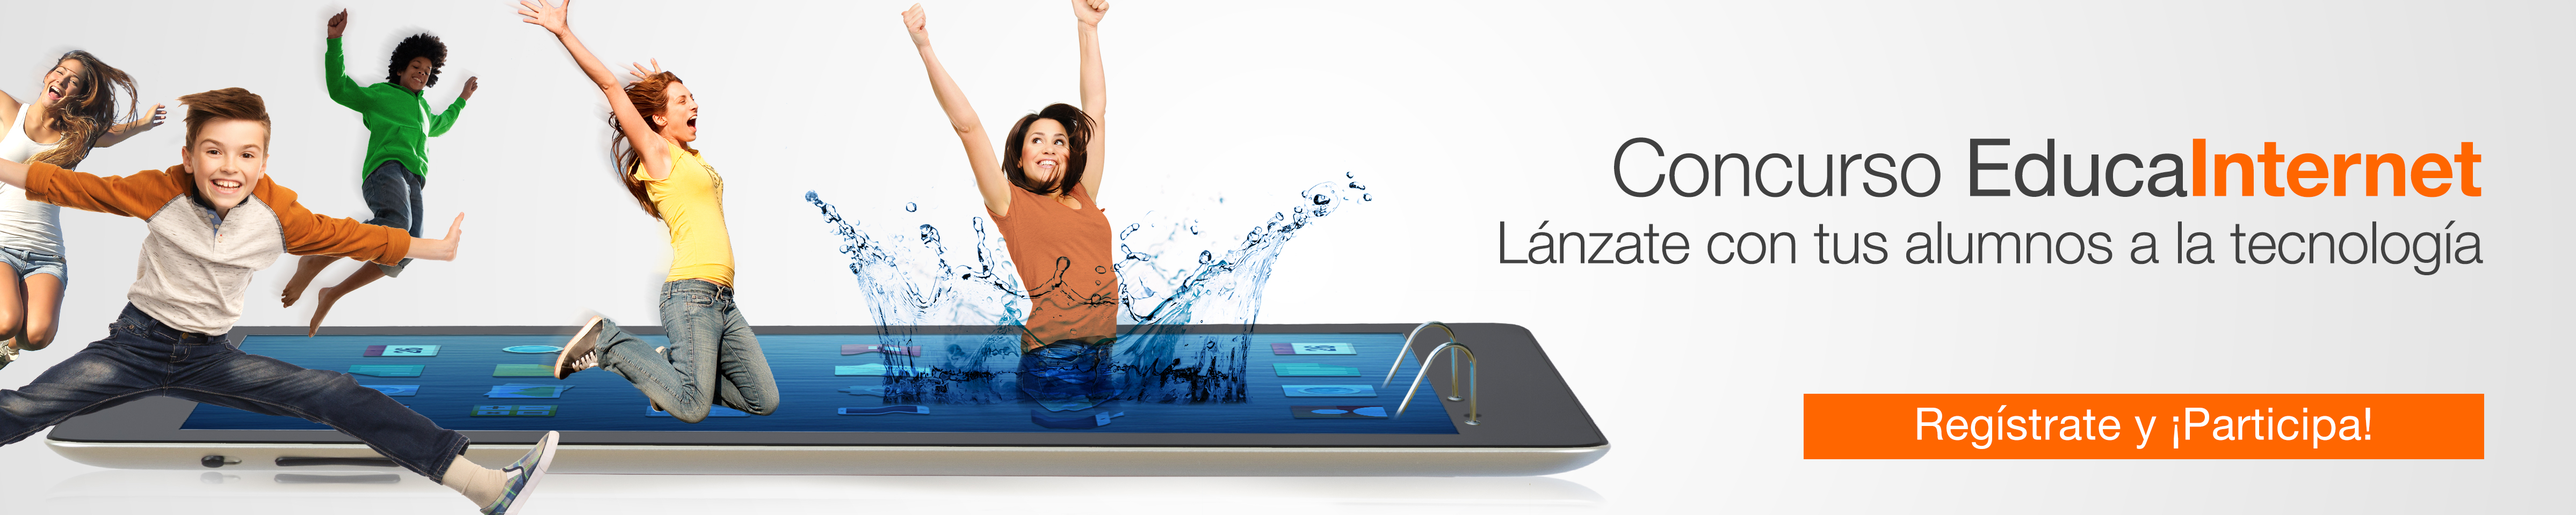
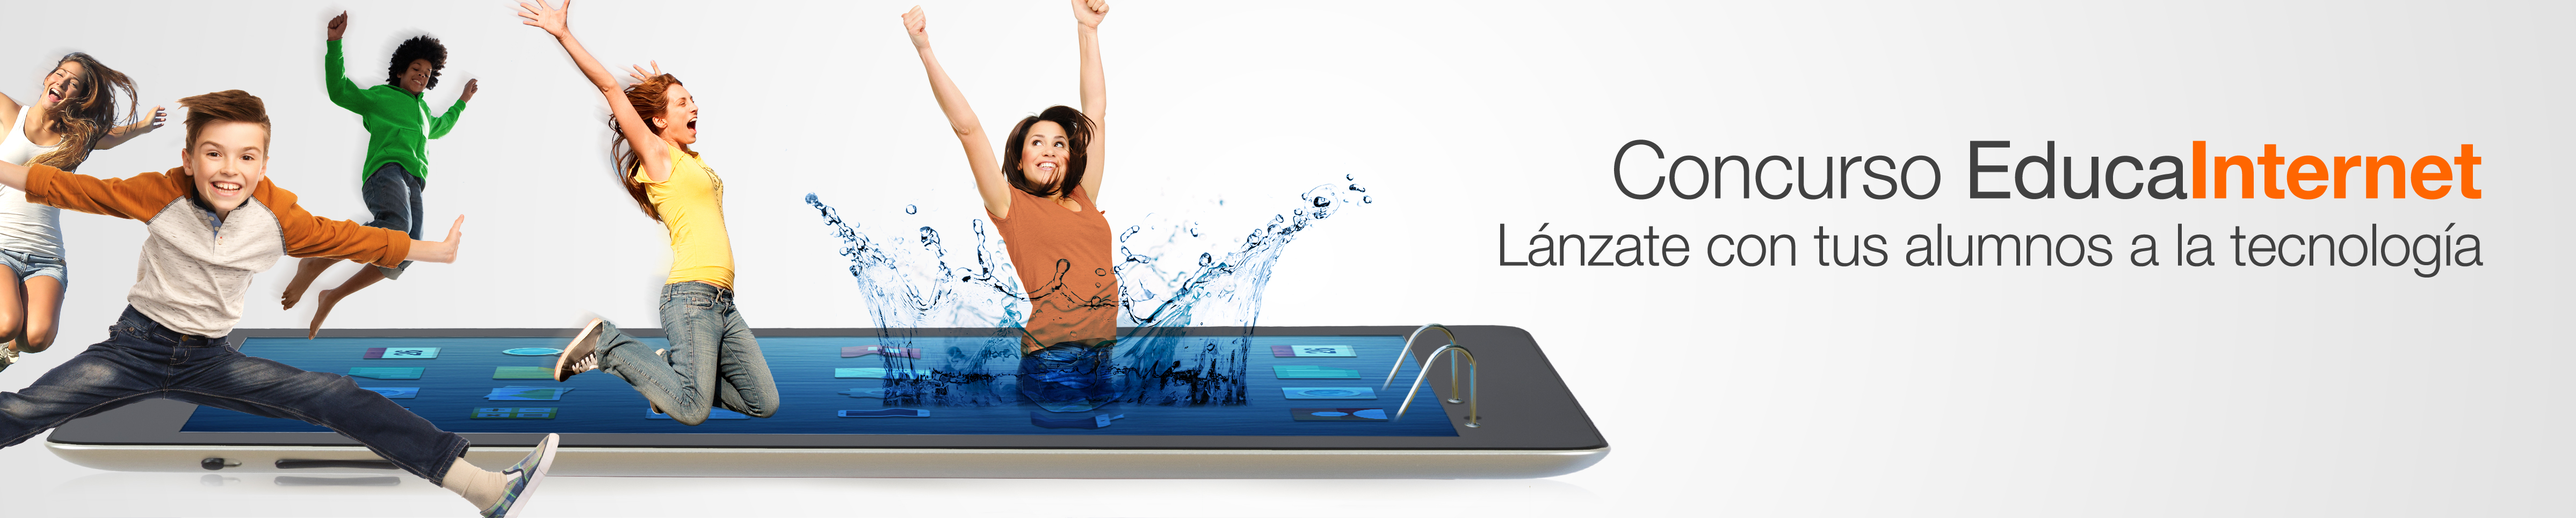
fixing contest styles

diff --git a/app/assets/stylesheets/ViSH_style_guide/pages/_frontpage.css.sass b/app/assets/stylesheets/ViSH_style_guide/pages/_frontpage.css.sass
@@ -95,6 +95,12 @@
     img
       bottom: 0
       position: inherit
+    .btn-signup-contest
+      position: absolute
+      right: 3.5vw
+      bottom: 3vw
+      width: 25vw
+      font-size: 1.2em
 
   .box-title-general
     height: 100px
@@ -312,6 +318,12 @@
     .box-title-general
       img
         bottom: -120px
+    .box-title-general.contest_img
+      .btn-signup-contest
+        right: 3.5vw
+        bottom: 3vw
+        width: 30vw
+        font-size: 1.2em
 
 
 @media (min-width: 481px) and (max-width: 767px)
@@ -346,6 +358,12 @@
           padding: 10px
       img
         bottom: -50px
+    .box-title-general.contest_img
+      .btn-signup-contest
+        right: 3.5vw
+        bottom: 3vw
+        width: 35vw
+        font-size: 1em
 @media (max-width: 480px)
   .entities_front
     .box-item
@@ -374,3 +392,9 @@
           font-size: 1.35em
       img
         bottom: 0px
+    .box-title-general.contest_img
+      .btn-signup-contest
+        left: 3.5vw
+        bottom: 3vw
+        width: 50vw
+        font-size: 1em

diff --git a/app/assets/stylesheets/ViSH_style_guide/pages/_contests.css.sass b/app/assets/stylesheets/ViSH_style_guide/pages/_contests.css.sass
@@ -81,13 +81,17 @@
       height: 37px
     .lbl
       margin-top: 10px
+    .thanks_txt
+      margin-bottom: 5px
 
 @media (min-width: 300px) and (max-width: 991px)
   .email_box
     position: static
     width: 100%
     padding: 15px 15px 60px
-
+@media (max-height: 700px)
+  .email_box
+    position: static
 
 //button go up in contest page
 .scrollup

diff --git a/app/assets/stylesheets/ViSH_style_guide/general/layouts/_scaffolding.css.sass b/app/assets/stylesheets/ViSH_style_guide/general/layouts/_scaffolding.css.sass
@@ -54,7 +54,8 @@ a
   padding: 10px
   background-color: $gray-lighter-extra
   color: $gray-light
-
+.width100
+  width: 100%
 textarea,input
   resize: none
 .tab-content
